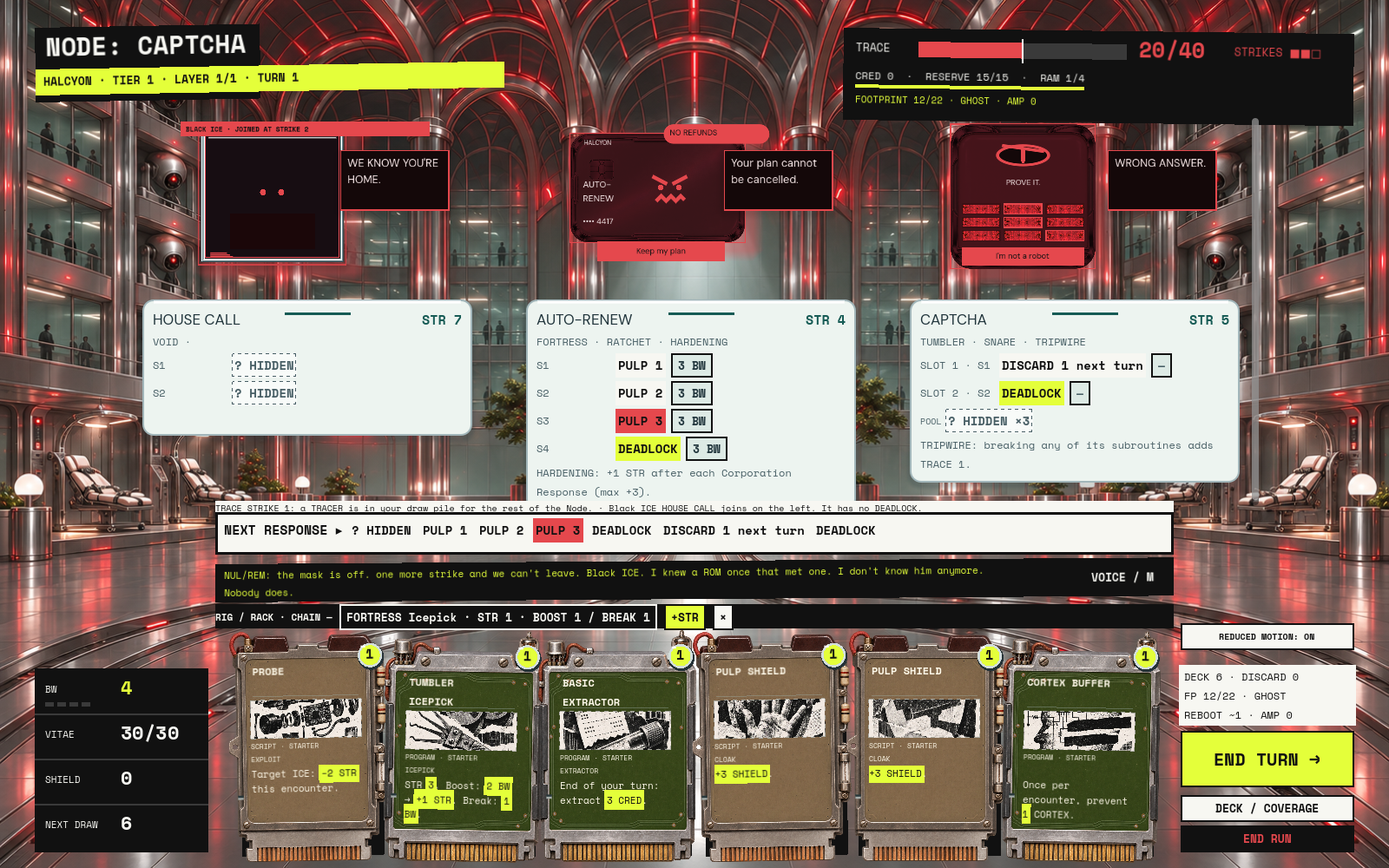
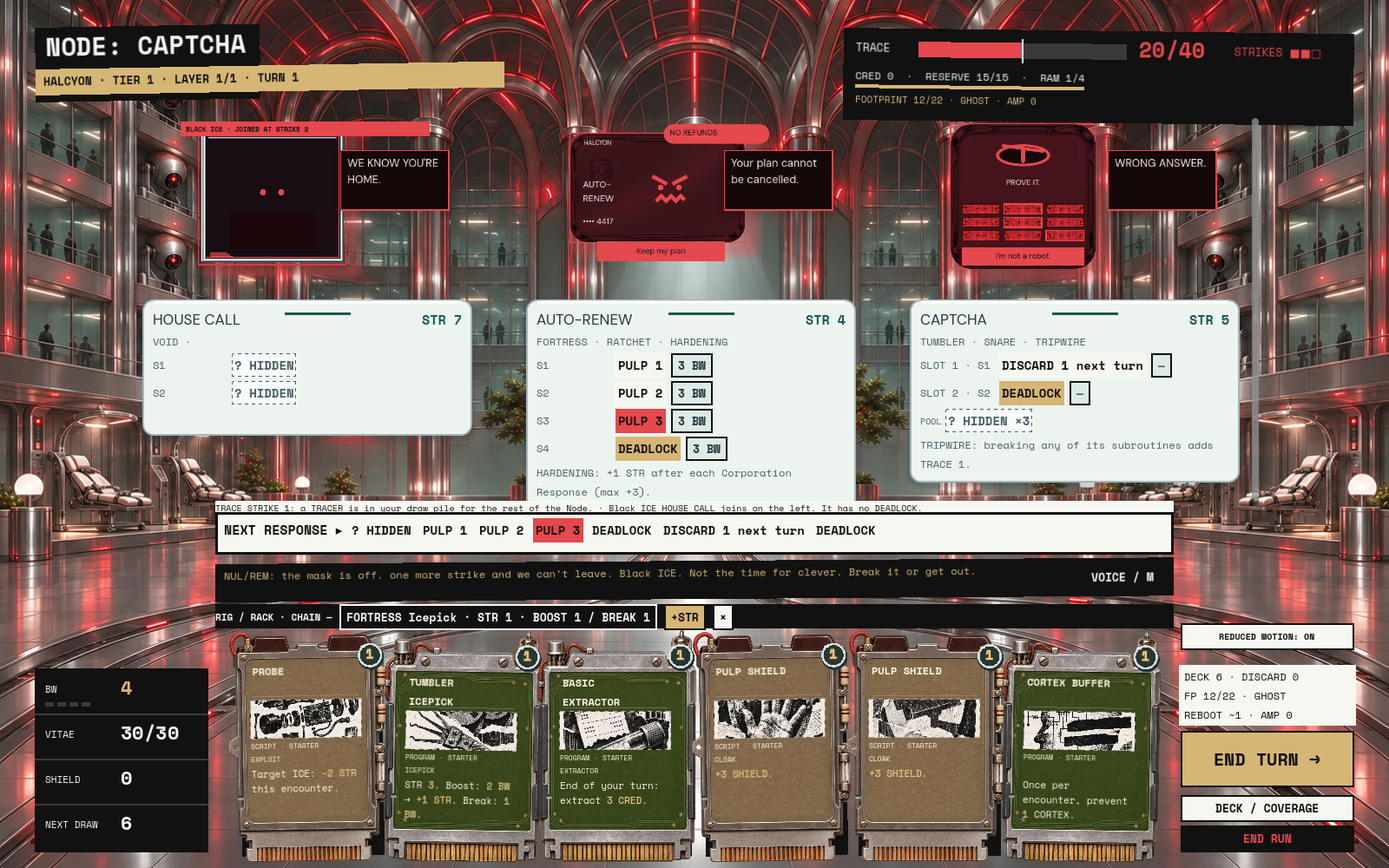
docs: refresh Chrome Deco fixtures and record art provenance [skip ci]

diff --git a/docs/REDLINE_CURRENT_STATUS.md b/docs/REDLINE_CURRENT_STATUS.md
@@ -1,6 +1,6 @@
 # PANOPTICON — current build status
 
-As of 2026-11-17. Repository: `Punkwork/REDLINE`. Source of truth: `docs/HANDOFF.md` and the cited design docs. Working branch: `codex/halcyon-playtest-stabilization`; implementation branch: `codex/chrome-deco-encounter`, based on `25c7a30` with completed ZEROED/TUMBLE PR #9 and VIS-001 PR #11 integrated as local dependencies first. Stabilization itself has not been changed.
+As of 2026-11-17. Repository: `Punkwork/REDLINE`. Working branch: `main`. The former stabilization line and the Chrome Deco work, including ZEROED/TUMBLE and VIS-001, came into `main` at `a523502`. The handoff moved to `main` at `53282ee`. PRs #9, #11 and #12 are closed because their work is on `main`. [HANDOFF.md](HANDOFF.md) tracks outstanding work. The Windows export runs on pushes to `main` that touch `godot/` or the validation workflow (`0b05679`).
 
 The Godot 4.3 HALCYON slice retains version `0.3.0-playtest.3`, four Rustlers and the first-four-row HALCYON route. Full-clear rewards/DECOMPILE, deck analysis, REBOOT/AMP, CHAIN/HOLD, virus cash-outs and SAFEHOUSE COMPILE remain. Uplink, other corporation gameplay, PATCHWORK/FUSE, CAPS and Ghostware acquisition are outside the slice.
 
@@ -8,18 +8,18 @@ ZEROED-001 floors ICE STR at 0 and records its once-per-encounter opportunity. N
 
 VIS-001 implements The Friendly Lie in the encounter: HALCYON's consumer-app background and mascot ICE above invariant paper/toner Rustler controls. DM Sans and Space Mono are packaged with their OFL licenses. IRONWATCH and LUCIDA skins exist as data only. Scan tags and the response strip show actual rules; undisclosed VOID rules stay hidden. Per-ICE faces and wording respond to broken state, threat and TRACE. The exported lethal PULP threshold defaults to 5. TRACE 20+ cracks the app, strike 1 shows “We see you.” and the actual TRACER, and strike 2 keeps the hostile background with Black ICE.
 
-Cards retain their printed size; hands of seven or more fan without a gameplay cap. Hover, wheel and arrows reveal individual cards. Installed Icepicks drag to subroutine rows using the selected pick's normal legality/cost. Invalid drops spend nothing. The RIG/RACK strip, BW card-reader slots, CRED reserve, END RUN, existing TUMBLER timings and NUL/REM voice/dialogue remain. Reduced motion is persistent and leaves the minimum response duration intact. Map, reward and service screens retain their existing layout; encounter choice/inspection cards use the paper component.
+Cards retain their printed size; hands of seven or more fan without a gameplay cap. Hover, wheel and arrows reveal individual cards. Installed Icepicks drag to subroutine rows using the selected pick's normal legality/cost. Invalid drops spend nothing. The RIG/RACK strip, BW card-reader slots, CRED reserve, END RUN, existing TUMBLER timings and NUL/REM voice/dialogue remain. Reduced motion is persistent and leaves the minimum response duration intact. Map, reward and service screens retain their existing layout; encounter choice and inspection views use the current Rustler card component.
 
-Validation: 357 rules checks pass. The 30-seed bot results match the ZEROED/TUMBLE baseline for all four Rustlers. Seven display-backed scripts cover choices, large hands, drag actions, moods/states, readability and screenshots; fixture PNGs are committed under `docs/visual/fixtures/vis-001/` and embedded in the visual PR. Per-step evidence and presentation interpretations are in the development log; designer approval/playtest is outstanding. This feature has not been merged or exported as a Windows release. HANDOFF remains the only task list.
-
-
-CHROME-001 refines the CAPTCHA encounter toward the designer-selected Chrome Deco direction. The initial flat/thin-rim samples were rejected; the revised candidate uses an illustrated celadon/pearl/chrome atrium, transparent appliance-shell art behind independent face/control layers, and a monochrome collage atlas on paper cards. The same architecture reveals cameras, galleries and restraint stations in the strike/Mask-off background. Rules/scan panels are opaque pearl-enamel service plaques with slate text and silver edges; illustrations are clipped to their frames. Dragging an Icepick highlights legal rows and shows the selected cost/MARGIN or rejection reason in a separate header; successful breaks confirm the BW spent. No gameplay data or rule values changed. Prototype art and visual fidelity await designer review; the corrected concept is a benchmark, not an implementation screenshot. Refreshed per-step PNGs are under `docs/visual/fixtures/chrome-001/`. Existing broader slice systems are unchanged. Audio development remains outside this visual task.
-
-The latest CHROME-001 plaque revision replaces the black ICE rule panels with pearl enamel, slate/slate-teal lettering and soft silver rims. Hidden/broken chips retain dashed/strike-through states on pale backgrounds; legal-target outlines use dark teal for contrast. Rustler paper/toner controls remain distinct. This revision is uploaded to PR #12 but awaits designer approval before merge to the shared game branch.
+Validation: 357 rules checks pass. The 30-seed bot results match the ZEROED/TUMBLE baseline for all four Rustlers. Seven display-backed scripts cover choices, large hands, drag actions, moods/states, readability and screenshots; fixture PNGs are committed under `docs/visual/fixtures/vis-001/` and were embedded in PR #11. The feature is on `main` and awaits designer playtesting. See the development log for per-step evidence and presentation interpretations.
 
 
-CARDS-001 refines Rustler cards into heavy slot cartridges with paper labels: SCRIPT uses Bakelite/stamped steel, PROGRAM cast aluminum and vacuum tubes, PROTOCOL enamel relay hardware. Exposed wiring, resistors, transistors, contact teeth and guide rails extend beyond the card face. The BW badge mounts on the upper chassis edge outside the white label. Authored rarity is unchanged: common/plain, uncommon two-notch/brass detail, rare three-notch/fine double-metal finish, with printed rarity text; STARTER keeps its label and plain finish. Bloatware stays corporate. Cards are 164×244 with protected component bounds; the hand/rack spacing and choice padding accommodate the frame. The new templates also appear in reward offers and inspection. Nine close-up PNGs and 6-/8-card encounter captures are in `docs/visual/fixtures/cards-001/`. No gameplay/card definitions changed; merge remains pending designer approval of PR #12.
+CHROME-001 refines the CAPTCHA encounter toward the designer-selected Chrome Deco direction. The initial flat/thin-rim samples were rejected; the revised candidate uses an illustrated celadon/pearl/chrome atrium, transparent appliance-shell art behind independent face/control layers, and a monochrome collage atlas used in the initial paper-card prototype. The same architecture reveals cameras, galleries and restraint stations in the strike/Mask-off background. Rules/scan panels are opaque pearl-enamel service plaques with slate text and silver edges; illustrations are clipped to their frames. Dragging an Icepick highlights legal rows and shows the selected cost/MARGIN or rejection reason in a separate header; successful breaks confirm the BW spent. No gameplay data or rule values changed. The corrected concept served as the benchmark for the live captures. Refreshed per-step PNGs are under `docs/visual/fixtures/chrome-001/`. Existing broader slice systems are unchanged. Audio development remains outside this visual task.
 
-CARDS-001 face revision removes black title bars and dark beige labels. Titles print directly on light ivory SCRIPT stock, pearl PROGRAM plates and pale celadon PROTOCOL enamel, within the existing chassis. Updated samples supersede the darker faces; final approval/merge remains pending.
+The latest CHROME-001 plaque revision replaces the black ICE rule panels with pearl enamel, slate/slate-teal lettering and soft silver rims. Hidden/broken chips retain dashed/strike-through states on pale backgrounds; legal-target outlines use dark teal for contrast. The photocopied Rustler HUD and controls remain distinct from the current hardware cards, as recorded in RUSTLER-LOOK-001. This revision is on `main`. The designer approved the CHROME-001 art, CARDS-001 and the VIS-001 presentation details (VISUAL-APPROVALS-002, `c326295`). Playtesting remains pending.
 
-The selected board palette supersedes the pale label studies: SCRIPT uses A-family tobacco/khaki brown, PROGRAM C-family earthy olive, PROTOCOL D-family muted blue-green. BLOATWARE now uses the Whirlwind reference's handle/paired tubes/cage/plug-in board construction, with a distinct oxide-red phenolic face selected by the designer (“Perfect”). All text prints directly on board material; no card has a white text panel. Bloatware's authored type, unplayability and clear/TRACE rules are unchanged.
+
+CARDS-001 refines Rustler cards into heavy slot cartridges with direct-print board faces: SCRIPT uses Bakelite/stamped steel, PROGRAM cast aluminum and vacuum tubes, PROTOCOL enamel relay hardware. Exposed wiring, resistors, transistors, contact teeth and guide rails extend beyond the card face. The BW badge mounts on the upper chassis edge outside the printed board face. Authored rarity is unchanged: common/plain, uncommon two-notch/brass detail, rare three-notch/fine double-metal finish, with printed rarity text; STARTER keeps its label and plain finish. Cards are 164×244 with protected component bounds; the hand/rack spacing and choice padding accommodate the frame. The new templates also appear in reward offers and inspection. Close-up PNGs, a four-type comparison and 6-/8-card encounter captures are in `docs/visual/fixtures/cards-001/`. Gameplay and card definitions were preserved.
+
+The intermediate CARDS-001 face revision removed black title bars and dark beige labels and explored ivory, pearl and pale celadon within the existing chassis.
+
+The selected board palette supersedes the pale label studies: SCRIPT uses A-family tobacco/khaki brown, PROGRAM C-family earthy olive, PROTOCOL D-family muted blue-green. BLOATWARE now uses the Whirlwind reference's handle/paired tubes/cage/plug-in board construction, with a distinct oxide-red phenolic face selected by the designer (“Perfect”). Text prints directly on subtly textured board material. Instrument-amber accents and glowing amber text are in the current card treatment. Bloatware's authored type, unplayability and clear/TRACE rules are unchanged.

diff --git a/docs/HANDOFF.md b/docs/HANDOFF.md
@@ -28,7 +28,7 @@ This is the one list of work that has been **decided but not finished**, so Code
 ## To build (approved, not yet in the build)
 
 ### Start here (Codex): decisions made 2026-11-16
-ZEROED-001, its RIOT cards, and TUMBLE-001 are built; see the tagged rows below. ROT-001 documentation sync and LOG-001 split were already completed in PR #8. No remaining Codex TO DO rows from this block. VIS-001 is also built on its feature branch; see Built below for the review tag.
+ZEROED-001, its RIOT cards, and TUMBLE-001 are built; see the tagged rows below. ROT-001 documentation sync and LOG-001 split were already completed in PR #8. No remaining Codex TO DO rows from this block. VIS-001 is built on `main`; see Built below for the review tag.
 
 **Next build: everything in `REDLINE_DECK_SYNERGY.md` (DSY-001 to DSY-014) and `REDLINE_PACING.md` (PACE-001 to PACE-010), approved as written on 2026-11-15.** Suggested order, so each step can be playtested before the next; numbers are working values. Where a system isn't in the slice yet (Uplink, Console Lab, PATCHWORK, Ghostware), build the part that touches it when that system arrives, and say so in the log.
 
@@ -47,7 +47,7 @@ ZEROED-001, its RIOT cards, and TUMBLE-001 are built; see the tagged rows below.
 | IDs | Change | Commit reference |
 |---|---|---|
 | CARDS-001 | Heavy SCRIPT/PROGRAM/PROTOCOL slot-cartridge templates; external BW rating tabs; brown/olive/teal board faces, oxide-red Whirlwind Bloatware and direct-print titles; common/uncommon/rare finish details; protected protrusions; nine close-ups and six/eight-card captures. Types, rarity weights, costs and rules unchanged. | **BUILT** — `cards-001-board-textures` · Art approved 2026-11-17 (VISUAL-APPROVALS-002); playtest pending |
-| CHROME-001 | Refine the CAPTCHA encounter in the designer-selected Chrome Deco direction: readable real rules/cards, illustrated mascot shells, atrium, corporate escalation and native interaction feedback. Ten refreshed full-screen PNG samples; pearl-enamel ICE service plaques; type-specific heavy slot cartridges with outside BW tabs and restrained rarity finishes; prototype art and final fidelity await review. | **BUILT** — `chrome-001-enamel` (code `chrome-001-step5`) · Art approved 2026-11-17 (VISUAL-APPROVALS-002); playtest pending |
+| CHROME-001 | Refine the CAPTCHA encounter in the designer-selected Chrome Deco direction: readable real rules/cards, illustrated mascot shells, atrium, corporate escalation and native interaction feedback. Ten full-screen PNGs refreshed against the current CARDS-001 treatment; pearl-enamel ICE service plaques; type-specific heavy slot cartridges with outside BW tabs and restrained rarity finishes. | **BUILT** — `chrome-001-enamel` (code `chrome-001-step5`) · Art approved 2026-11-17 (VISUAL-APPROVALS-002); playtest pending |
 | VIS-001 | The Friendly Lie encounter: fonts/skins, zine hand/HUD, mascot scans and moods, corporation break states, drag/motion/accessibility, seven PNG review fixtures. Visual only; ZEROED/TUMBLE integrated first. | **BUILT** — `vis-001g` (steps `vis-001a`–`vis-001g`) · Art approved 2026-11-17 (VISUAL-APPROVALS-002); playtest pending |
 | TUMBLE-001 | Remove broken TUMBLER subs and tumble immediately active replacements | **BUILT** — `zeroed-tumble-step3` |
 | ZEROED-001-cards | Replace INTEGER UNDERFLOW with NULL POINTER and add RIOT ZEROED cards | **BUILT** — `zeroed-tumble-step2` |
@@ -72,6 +72,10 @@ Per-step results and interpretations: [HALCYON_PLAYTEST3_IMPLEMENTATION.md](HALC
 - DSY-014/PACE-007 Phase 7 HULL engines, and PACE-004/010 manual scoring remain with their existing owners below.
 - Windows export/launch: export runs on pushes to `main` (MAIN-001). Feature/PR CI verifies code/screenshots only. Human Windows launch and playtest remain outstanding.
 - Conditional turn-4 BOOTING and PACE-006 safety valves intentionally excluded.
+
+## Open asset provenance
+
+- CHROME-001 / CARDS-001: recover the original generation records and corrected concept PNG if they become available. The two asset source files now index the recoverable evidence.
 
 ## Waiting on the designer
 
@@ -98,4 +102,7 @@ Per-step results and interpretations: [HALCYON_PLAYTEST3_IMPLEMENTATION.md](HALC
 | DSY / PACE approval | Designer approved both docs as written for the next build; amendments recorded in Core Rules, Card Pools, Uplink & CAPS, Upgrades, Rustlers, Engines and the three ICE docs; checklist v0.2. | 2026-11-15 (Claude) |
 | VISUAL-APPROVALS-002 | Designer approved the CHROME-001 art review, CARDS-001 as a whole, and the VIS-001 details (hand size, lethal threshold, undrawn ICE and wording, motion timings, Cracking after a strike). Recorded in the master design doc. | 2026-11-17 (designer; recorded by Claude) |
 | MAIN-001 | Shared working agreement (`AGENTS.md`, `CLAUDE.md`) makes `main` the source of truth for Codex and Claude; `codex/chrome-deco-encounter` (including halcyon-playtest-stabilization and VIS-001) merged into `main`; approved Nov 17 visual decisions recorded in the master design doc. | aea16de, a523502, dd64768 · 2026-11-17 (Claude) |
+| CHROME-001 screenshot refresh | Reran all five screenshot stages and replaced the ten PNGs under their original names with the current amber and textured CARDS-001 treatment. | 2026-11-17 (Codex) |
+| MAIN-001 status sync | Corrected the working line, merged PR status and Windows export trigger in the current build status. | 2026-11-17 (Codex) |
+| CHROME-001 / CARDS-001 source notes | Recorded available source and edit history for nine generated assets and corrected Whirlwind Bloatware. Exact prompts, model IDs and the corrected concept PNG are still missing. | 2026-11-17 (Codex) |
 | VIS-001 doc | `REDLINE_VISUAL_LANGUAGE.md` and `docs/visual/` (reference images, placeholder backgrounds, mascot SVGs) added for Codex. | 2026-11-17 (Claude) |

diff --git a/godot/assets/friendly_lie/cartridges/SOURCES.md b/godot/assets/friendly_lie/cartridges/SOURCES.md
@@ -6,9 +6,22 @@ Generated with OpenAI image generation on 2026-11-17 for the designer's request 
 - `program.png`: cast-aluminum case, metal-can transistor, wire loop and glass vacuum tube.
 - `protocol.png`: celadon-enamel relay carrier, terminal block, resistor bank and exposed wiring.
 
-The PNGs are empty template illustrations with transparency. Live Godot controls supply names, costs, type/tags, authored rarity, card rules and art. The authored types remain SCRIPT/PROGRAM/PROTOCOL/BLOATWARE; rarity data and reward odds are unchanged. Common/start-of-run carriers use plain finishes; uncommon/rare indexing and metal details are rendered by code, with full rarity labels for non-color identification. Bloatware retains its corporate app-card treatment. Material details and motif reuse remain prototype artwork pending designer review.
+- `bloatware.png`: Whirlwind-inspired protective handle, paired tubes and open cage, with an oxide-red phenolic board face.
+
+The PNGs are empty template illustrations with transparency. Live Godot controls supply names, costs, type/tags, authored rarity, card rules and art. The authored types remain SCRIPT/PROGRAM/PROTOCOL/BLOATWARE; rarity data and reward odds are unchanged. Common/start-of-run carriers use plain finishes; uncommon/rare indexing and metal details are rendered by code, with full rarity labels for non-color identification. Bloatware uses the oxide-red Whirlwind cartridge selected in `744f3dc` and recorded in the master design document. The designer approved the cartridge set and its finishes in VISUAL-APPROVALS-002.
 
 The 2026-11-17 face revision uses generated edits of the same three frames to replace beige label material with light ivory SCRIPT stock, pearl PROGRAM plate and pale celadon PROTOCOL enamel. Titles are live dark printing with no black bar; no title text is baked into the assets.
 
 
-Selected board-material revision (2026-11-17): generated edits use A-family tobacco/khaki brown for SCRIPT (IBM SMS material photo), C-family olive for PROGRAM (GE-225 board photo) and D-family blue-green for PROTOCOL (RCA connector material photo). These references include early-1960s examples; they guide material colour rather than a claim of exact 1950s manufacture. Whirlwind construction reference: Computer History Museum object 102732036, https://www.computerhistory.org/collections/catalog/102732036 . The generated `bloatware.png` adapts its protective handle, paired tubes and open cage to the slot-cartridge format. The designer selected a distinct oxide-red board face for Bloatware; light plate/brown Bloat prototypes were rejected and are superseded. No museum photograph is used directly as game art. Labels and rules remain live controls.
+Selected board-material revision (2026-11-17): generated edits use A-family tobacco/khaki brown for SCRIPT (IBM SMS material photo), C-family olive for PROGRAM (GE-225 board photo) and D-family blue-green for PROTOCOL (RCA connector material photo). These references include early-1960s examples; they guide material colour rather than a claim of exact 1950s manufacture. Whirlwind construction reference: Computer History Museum object 102732036, https://www.computerhistory.org/collections/catalog/102732036. The generated `bloatware.png` adapts its protective handle, paired tubes and open cage to the slot-cartridge format. The designer selected a distinct oxide-red board face for Bloatware; light plate/brown Bloat prototypes were rejected and are superseded. No museum photograph is used directly as game art. Labels and rules remain live controls.
+
+## Recorded generation history and references
+
+OpenAI image generation was the tool for all four frames. Exact model identifiers and verbatim generation and edit prompts are unavailable. The named references below were recorded during development. Exact input files for the initial frame generations and the IBM, GE and RCA material photos were unavailable.
+
+| Asset | Recorded source or reference | Recorded generation and edits |
+|---|---|---|
+| `script.png` | Original SCRIPT frame for edits. IBM SMS material photo for A-family colour. | Stamped steel/Bakelite carrier. Edited from beige to ivory and then to the selected tobacco/khaki brown board. |
+| `program.png` | Original PROGRAM frame for edits. GE-225 board photo for C-family colour. | Cast-aluminum carrier with vacuum tube. Edited from beige to pearl and then to the selected earthy olive board. |
+| `protocol.png` | Original PROTOCOL frame for edits. RCA connector material photo for D-family colour. | Enamel relay carrier. Edited from beige to pale celadon and then to the selected muted blue-green board. |
+| `bloatware.png` | [Computer History Museum Whirlwind reference, object 102732036](https://www.computerhistory.org/collections/catalog/102732036). | Whirlwind hardware adapted as a slot cartridge. Pale plate and brown board versions were superseded by the selected oxide-red face. |

diff --git a/docs/REDLINE_DEVELOPMENT_LOG.md b/docs/REDLINE_DEVELOPMENT_LOG.md
@@ -4,43 +4,6 @@
 
 **LOG-001 (2026-11-16):** entries from 2026-11-08 to 2026-11-14 are in `REDLINE_DEVELOPMENT_LOG_ARCHIVE.md`, unchanged. Keep this file under about 60 KB (HANDOFF, "How we work" 6).
 
-## 2026-11-15 — DSY-007, DSY-008: Add REBOOT engines, SCAN and in-Node card routing (Codex)
-
-**Commit reference:** `playtest3-step2` (tag on this step commit).
-
-**Changed:** REBOOT queues drain only after draws finish; AMP and seven specified cards, SCAN bottom-order choice, in-Node BURN and discard retrieval, HUD reboot estimate, and bot choice handling.
-
-**Interpretations to confirm:** SCAN does not itself reshuffle; selected bottom cards are ordered first-selected-first-drawn when reached. FORCE REBOOT counts even with an empty discard. ROLLING RESTART adds its printed +1 AMP without self-amplification; SHIELD/BW/draw ENGINE outputs gain current AMP. A 128-trigger repeating-chain safeguard prevents unbounded loops. One RIOT bot run stalled at the guard rather than dying; it is reported separately.
-
-**Deferred:** CRON/PROCESS and unbuilt corporation systems remain deferred; AMP support for the existing virus outputs is completed with the UNDERFLOW/virus step.
-
-**Executed:** official Godot 4.3 Linux; full rules suite followed by the 30-seed sim for each Rustler (seeds 100–129), via `SIM=1 godot --headless --path godot --script res://tests/test_game.gd`.
-
-```text
-Godot Engine v4.3.stable.official.77dcf97d8 - https://godotengine.org
-
-  bot: phase=SLICE_DONE vitae=10 trace=17 strikes=0 cred=16 deck=15 steps=46
-  deck GENERALIST: avg end size 14.23; avg bloat tax paid 0.00 TRACE
-  opening GENERALIST: earliest BREACH 3
-  pulp GENERALIST: per encounter 14.5 incoming (1.8 from Black ICE), 7.4 absorbed by SHIELD, 7.0 to VITAE, 4.8 hits
-  sim GENERALIST: 8/30 cleared; deaths by node { "CONSENT WALL": 3, "TERMS & CONDITIONS": 11, "CAPTCHA": 3, "DOORBELL": 5 }; survivors' avg end VITAE 13.6; purges 0 in 0 runs; SHATTER played 0 times in 0 runs
-  deck ECHO: avg end size 14.40; avg bloat tax paid 0.00 TRACE
-  opening ECHO: earliest BREACH 3
-  pulp ECHO: per encounter 10.7 incoming (0.0 from Black ICE), 3.9 absorbed by SHIELD, 6.8 to VITAE, 3.2 hits
-  sim ECHO: 12/30 cleared; deaths by node { "DOORBELL": 11, "TERMS & CONDITIONS": 4, "CAPTCHA": 3 }; survivors' avg end VITAE 10.2; purges 0 in 0 runs; SHATTER played 0 times in 0 runs
-  deck RIOT: avg end size 17.30; avg bloat tax paid 0.00 TRACE
-  opening RIOT: earliest BREACH 3
-  stalled RIOT (3000-step guard, not deaths): { "CAPTCHA": 1 }
-  pulp RIOT: per encounter 10.9 incoming (2.2 from Black ICE), 3.9 absorbed by SHIELD, 7.0 to VITAE, 2.8 hits
-  sim RIOT: 4/30 cleared; deaths by node { "TERMS & CONDITIONS": 15, "DOORBELL": 8, "CAPTCHA": 2 }; survivors' avg end VITAE 14.5; purges 0 in 0 runs; SHATTER played 81 times in 30 runs
-  deck VECTOR: avg end size 14.13; avg bloat tax paid 0.00 TRACE
-  opening VECTOR: earliest BREACH 3
-  pulp VECTOR: per encounter 11.6 incoming (0.0 from Black ICE), 3.3 absorbed by SHIELD, 8.3 to VITAE, 3.2 hits
-  sim VECTOR: 7/30 cleared; deaths by node { "TERMS & CONDITIONS": 10, "DOORBELL": 9, "CAPTCHA": 4 }; survivors' avg end VITAE 7.4; purges 19 in 16 runs; SHATTER played 0 times in 0 runs
-TESTS: 244 passed, 0 failed
-```
-
-
 ## 2026-11-15 — DSY-011,012: Add CHAIN and HOLD (Codex)
 
 **Commit reference:** `playtest3-step3` (tag on this step commit).
@@ -498,3 +461,7 @@ GENERALIST also has two stalls, counted separately from deaths. Mean end decks G
 ## 2026-11-17 — VISUAL-APPROVALS-002: prototype art and working values approved (Claude)
 
 **Designer decision:** "Okay, all those changes that you listed are all approved." Covers the CHROME-001 art review, CARDS-001 as a whole, and the VIS-001 details (hand size, lethal threshold, undrawn ICE silhouettes and wording, motion timings, Cracking after a strike). Recorded as VISUAL-APPROVALS-002 in the master design doc with the approved values. HANDOFF: the two matching *Waiting* rows moved to *Done*; the CARDS-001, CHROME-001 and VIS-001 *Built* rows note art approval with playtest still pending. The rules questions in *Waiting* are not covered. **Code changes:** none.
+
+## 2026-11-17 — CHROME-001 / CARDS-001 / MAIN-001 follow-up (Codex)
+
+Refreshed ten CHROME-001 PNGs from `main` with Godot 4.3. All five capture stages passed. Amber numbers on brown SCRIPT faces are harder to read. Synced status and handoff and documented nine assets, including oxide-red Whirlwind Bloatware. Exact prompts/model IDs and the corrected concept PNG were unavailable. No Windows export. LOG-001 moved the oldest whole live entry to the archive unchanged.

diff --git a/docs/REDLINE_DEVELOPMENT_LOG_ARCHIVE.md b/docs/REDLINE_DEVELOPMENT_LOG_ARCHIVE.md
@@ -1455,3 +1455,42 @@ TESTS: 233 passed, 0 failed
 ```
 
 <!-- LOG-001: oldest whole live-log entry appended on 2026-11-17 (Claude). -->
+
+## 2026-11-15 — DSY-007, DSY-008: Add REBOOT engines, SCAN and in-Node card routing (Codex)
+
+**Commit reference:** `playtest3-step2` (tag on this step commit).
+
+**Changed:** REBOOT queues drain only after draws finish; AMP and seven specified cards, SCAN bottom-order choice, in-Node BURN and discard retrieval, HUD reboot estimate, and bot choice handling.
+
+**Interpretations to confirm:** SCAN does not itself reshuffle; selected bottom cards are ordered first-selected-first-drawn when reached. FORCE REBOOT counts even with an empty discard. ROLLING RESTART adds its printed +1 AMP without self-amplification; SHIELD/BW/draw ENGINE outputs gain current AMP. A 128-trigger repeating-chain safeguard prevents unbounded loops. One RIOT bot run stalled at the guard rather than dying; it is reported separately.
+
+**Deferred:** CRON/PROCESS and unbuilt corporation systems remain deferred; AMP support for the existing virus outputs is completed with the UNDERFLOW/virus step.
+
+**Executed:** official Godot 4.3 Linux; full rules suite followed by the 30-seed sim for each Rustler (seeds 100–129), via `SIM=1 godot --headless --path godot --script res://tests/test_game.gd`.
+
+```text
+Godot Engine v4.3.stable.official.77dcf97d8 - https://godotengine.org
+
+  bot: phase=SLICE_DONE vitae=10 trace=17 strikes=0 cred=16 deck=15 steps=46
+  deck GENERALIST: avg end size 14.23; avg bloat tax paid 0.00 TRACE
+  opening GENERALIST: earliest BREACH 3
+  pulp GENERALIST: per encounter 14.5 incoming (1.8 from Black ICE), 7.4 absorbed by SHIELD, 7.0 to VITAE, 4.8 hits
+  sim GENERALIST: 8/30 cleared; deaths by node { "CONSENT WALL": 3, "TERMS & CONDITIONS": 11, "CAPTCHA": 3, "DOORBELL": 5 }; survivors' avg end VITAE 13.6; purges 0 in 0 runs; SHATTER played 0 times in 0 runs
+  deck ECHO: avg end size 14.40; avg bloat tax paid 0.00 TRACE
+  opening ECHO: earliest BREACH 3
+  pulp ECHO: per encounter 10.7 incoming (0.0 from Black ICE), 3.9 absorbed by SHIELD, 6.8 to VITAE, 3.2 hits
+  sim ECHO: 12/30 cleared; deaths by node { "DOORBELL": 11, "TERMS & CONDITIONS": 4, "CAPTCHA": 3 }; survivors' avg end VITAE 10.2; purges 0 in 0 runs; SHATTER played 0 times in 0 runs
+  deck RIOT: avg end size 17.30; avg bloat tax paid 0.00 TRACE
+  opening RIOT: earliest BREACH 3
+  stalled RIOT (3000-step guard, not deaths): { "CAPTCHA": 1 }
+  pulp RIOT: per encounter 10.9 incoming (2.2 from Black ICE), 3.9 absorbed by SHIELD, 7.0 to VITAE, 2.8 hits
+  sim RIOT: 4/30 cleared; deaths by node { "TERMS & CONDITIONS": 15, "DOORBELL": 8, "CAPTCHA": 2 }; survivors' avg end VITAE 14.5; purges 0 in 0 runs; SHATTER played 81 times in 30 runs
+  deck VECTOR: avg end size 14.13; avg bloat tax paid 0.00 TRACE
+  opening VECTOR: earliest BREACH 3
+  pulp VECTOR: per encounter 11.6 incoming (0.0 from Black ICE), 3.3 absorbed by SHIELD, 8.3 to VITAE, 3.2 hits
+  sim VECTOR: 7/30 cleared; deaths by node { "TERMS & CONDITIONS": 10, "DOORBELL": 9, "CAPTCHA": 4 }; survivors' avg end VITAE 7.4; purges 19 in 16 runs; SHATTER played 0 times in 0 runs
+TESTS: 244 passed, 0 failed
+```
+
+
+<!-- LOG-001: oldest whole live-log entry appended on 2026-11-17 (Codex). -->

diff --git a/godot/assets/friendly_lie/chrome/SOURCES.md b/godot/assets/friendly_lie/chrome/SOURCES.md
@@ -1,10 +1,13 @@
 # Chrome Deco prototype assets
 
-Generated with OpenAI image generation on 2026-11-17 for the designer-authorized CHROME-001 visual experiment. These are prototype illustrations, not designer-approved final art.
+Generated with OpenAI image generation on 2026-11-17 for CHROME-001. The exact model identifier, generation prompts and edit prompts are unavailable for these five assets. The table records the inputs and edit history recoverable from the development log and prior source notes. These prototype illustrations were approved in VISUAL-APPROVALS-002.
 
-- `atrium.png`: architectural background derived from the designer's preferred Chrome Deco concept. No UI is baked into it.
-- `atrium-hostile.png`: generated edit of the exact atrium, revealing observation galleries, cameras and processing rails; clean architecture is preserved.
-- `auto-renew-shell.png`, `captcha-shell.png`: transparent empty appliance shells. Face parts, text, buttons and rule state are live Godot controls.
-- `toner-illustrations.png`: six-cell monochrome illustration atlas, sampled at runtime using AtlasTexture. Motifs are reused by semantic card role as prototype art; no card rules are baked into it.
+| Asset | Recorded source or reference | Recorded generation or edit |
+|---|---|---|
+| `atrium.png` | Designer-selected corrected Chrome Deco concept PNG (original file unavailable). | Pearl, celadon and chrome atrium derived from the concept, with live UI supplied by Godot. |
+| `atrium-hostile.png` | The exact friendly atrium used for `atrium.png`. | Generated edit preserved the architecture while revealing observation galleries, cameras and processing rails. |
+| `auto-renew-shell.png` | CHROME-001 appliance-shell direction. Exact input image files unknown. | Empty transparent appliance shell. Separate Godot controls supply the face, text, buttons and rule state. |
+| `captcha-shell.png` | CHROME-001 appliance-shell direction. Exact input image files unknown. | Empty transparent appliance shell. Separate Godot controls supply the face, text, buttons and rule state. |
+| `toner-illustrations.png` | CHROME-001 Rustler photocopy/collage direction. Exact input image files unknown. | Six-cell monochrome collage atlas sampled by Godot's AtlasTexture. Shared motifs indicate prototype card roles. |
 
-Source PNGs remain in the workspace's generated_images directory. No gameplay data or font licensing is changed.
+The corrected concept PNG used as the CHROME-001 step 3 benchmark could not be recovered. The [CHROME-001 captures](../../../../docs/visual/fixtures/chrome-001/) show the implementation. See the CHROME-001 entries in the [development log](../../../../docs/REDLINE_DEVELOPMENT_LOG.md) for the recorded benchmark and asset decisions.
